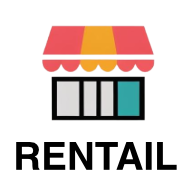
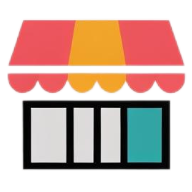
✨ refactor(layout): Introduce PageIconLink component for consistent branding
- Replaced logo implementation in PageFooter and PageHeader with a new PageIconLink component for improved code reusability and consistency.
- Updated layout structure to enhance visual identity across the application.

diff --git a/app/components/layout/PageFooter.tsx b/app/components/layout/PageFooter.tsx
@@ -1,4 +1,5 @@
 import { NavLink } from "react-router";
+import PageIconLink from "./PageIconLink";
 
 export default function PageFooter() {
   return (
@@ -7,18 +8,7 @@ export default function PageFooter() {
         <div className="grid grid-cols-1 gap-8 md:grid-cols-4">
           {/* Brand */}
           <aside className="flex flex-col gap-4">
-            <NavLink
-              to="/"
-              className="flex items-center gap-2 font-bold text-2xl"
-              viewTransition
-            >
-              <img
-                src="/images/logo.png"
-                alt="rentail.space"
-                className="h-8 w-8"
-              />
-              <span className="text-blue-600">rentail</span>.space
-            </NavLink>
+            <PageIconLink />
             <p className="text-gray-600 text-sm">
               AI-powered short-term retail space marketplace
             </p>

diff --git a/app/components/layout/PageHeader.tsx b/app/components/layout/PageHeader.tsx
@@ -1,12 +1,11 @@
 import { NavLink } from "react-router";
 import AccountMenu from "./AccountMenu";
+import PageIconLink from "./PageIconLink";
 
 export default function PageHeader() {
   return (
     <header className="navbar shadow-sm print:hidden">
-      <NavLink to="/" className="navbar-start font-bold text-2xl text-gray-900">
-        <span className="text-blue-600">rentail</span>.space
-      </NavLink>
+      <PageIconLink className="navbar-start" />
 
       <nav className="navbar-center hidden items-center gap-6 md:flex">
         <NavLink

diff --git a/app/components/layout/PageIconLink.tsx b/app/components/layout/PageIconLink.tsx
@@ -1,0 +1,18 @@
+import { NavLink } from "react-router";
+import { twMerge } from "tailwind-merge";
+
+export default function PageIconLink({ className }: { className?: string }) {
+  return (
+    <NavLink
+      to="/"
+      className={twMerge(
+        "flex items-center gap-2 font-bold text-2xl text-gray-900",
+        className,
+      )}
+      viewTransition
+    >
+      <img src="/images/logo.png" alt="rentail.space" className="h-8 w-8" />
+      <span className="text-blue-600">rentail</span>.space
+    </NavLink>
+  );
+}
